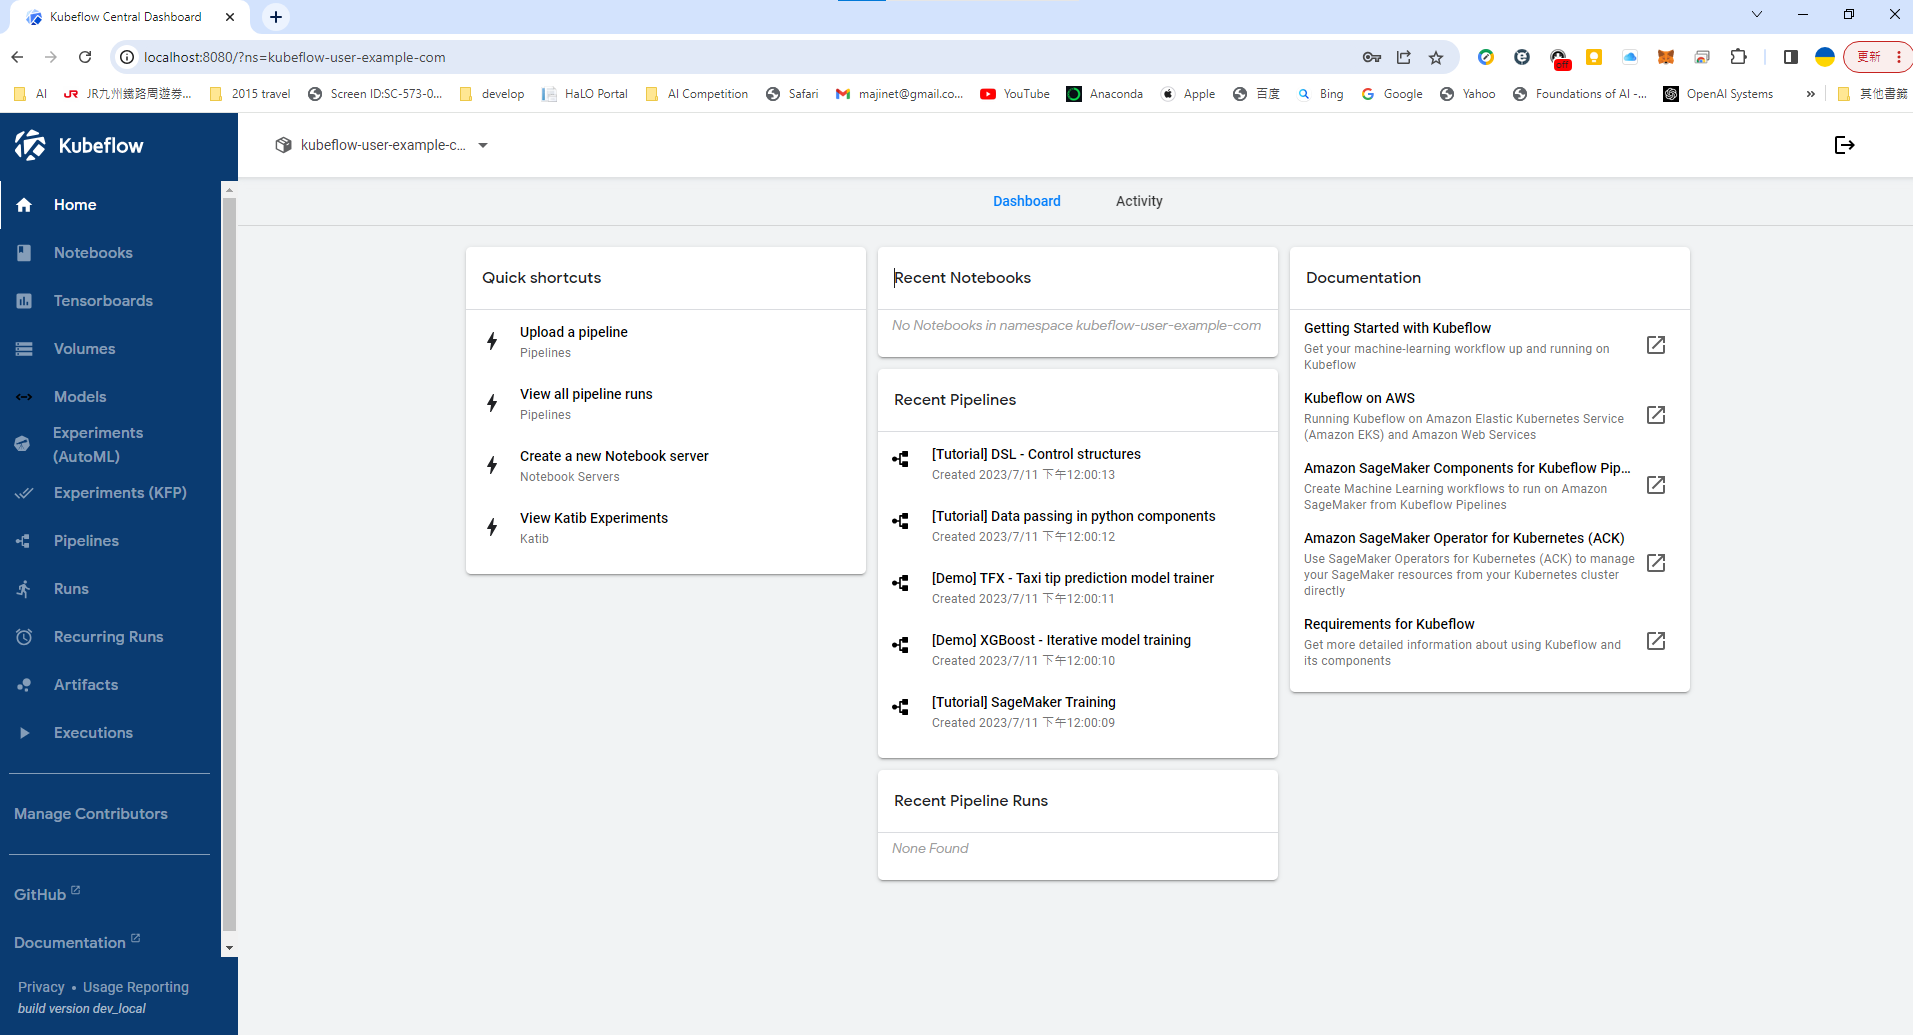
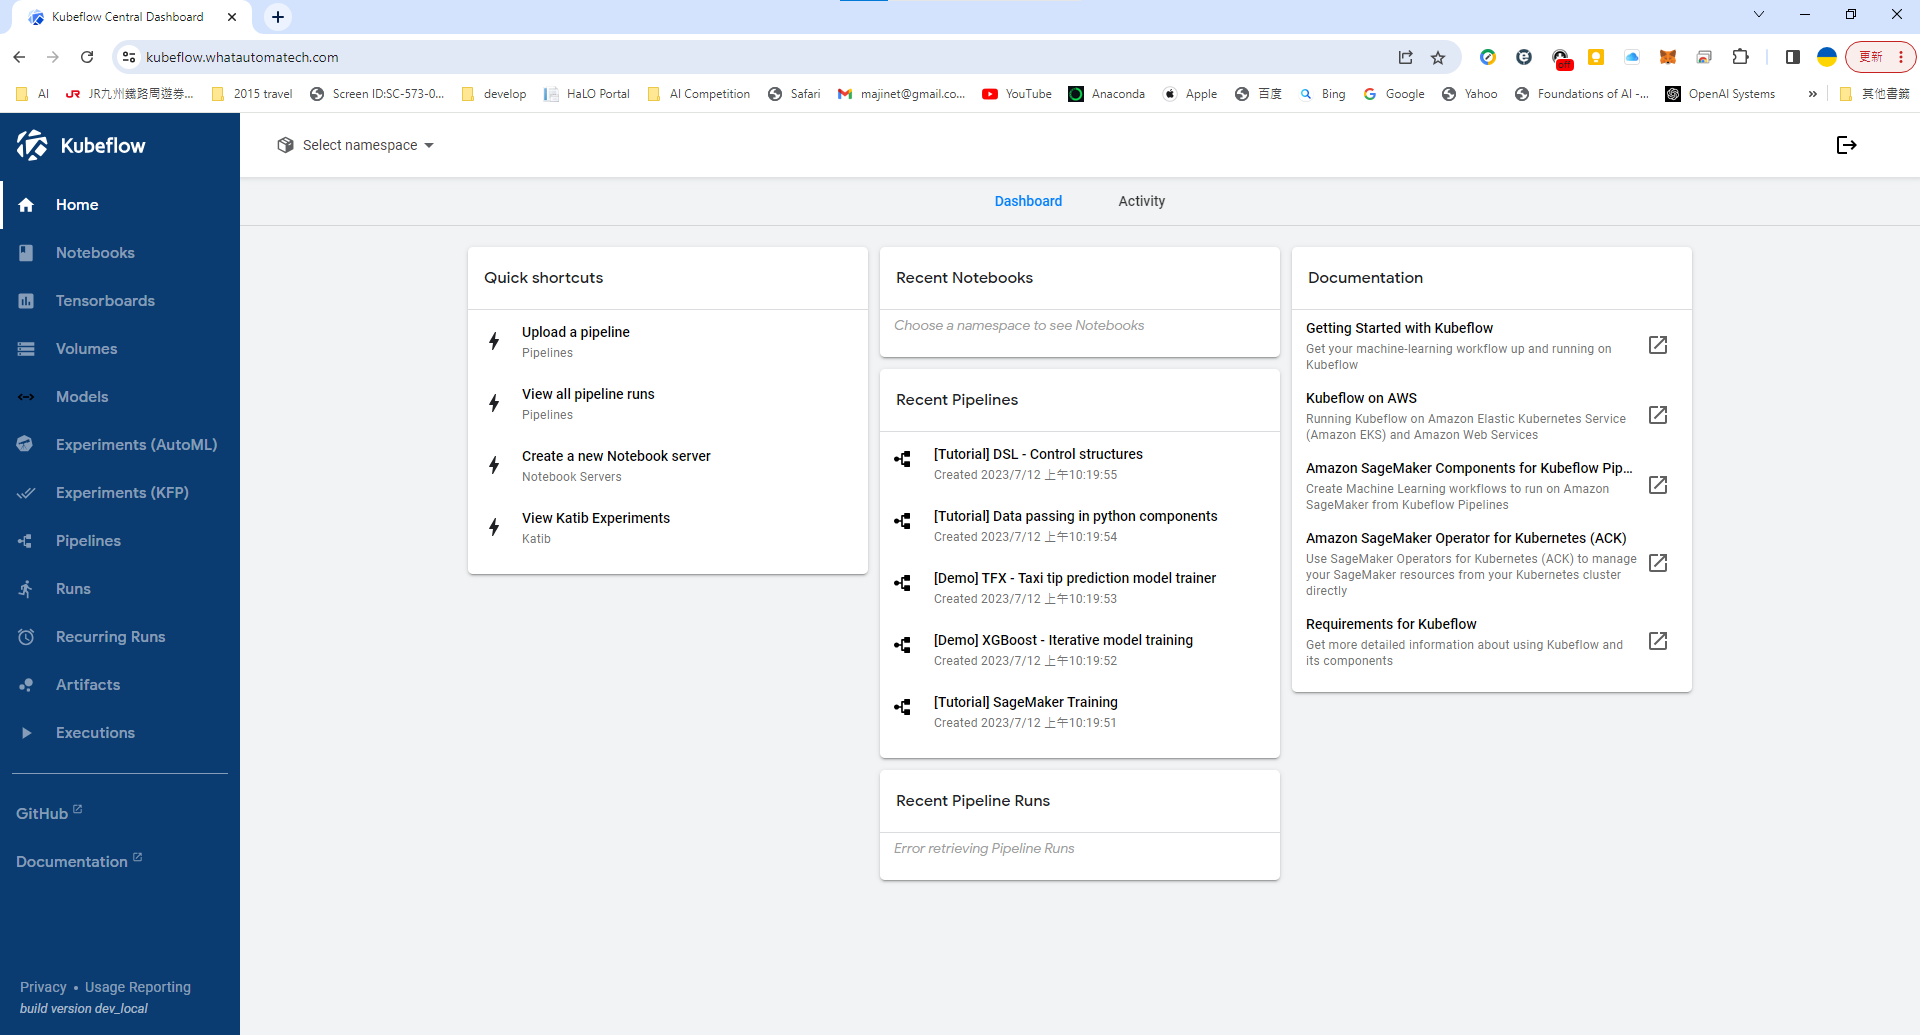
add cognito for kubeflow logon

diff --git a/README.md b/README.md
@@ -47,6 +47,6 @@ Diagram reference from blog "Enabling hybrid ML workflows on Amazon EKS and Amaz
 Refer to Blog: [Enabling hybrid ML workflows on Amazon EKS and Amazon SageMaker with one-click Kubeflow on AWS deployment](https://aws.amazon.com/tw/blogs/machine-learning/enabling-hybrid-ml-workflows-on-amazon-eks-and-amazon-sagemaker-with-one-click-kubeflow-on-aws-deployment/).
 
 ### Kubeflow Homepage
-After installation completed, kubeflow homepage can be logged in.
+Follow [Cognito Manual Deployment Guide](https://awslabs.github.io/kubeflow-manifests/docs/deployment/cognito/manifest/guide/) to install domain and AWS Application Load Balancer (ALB). After installation completed, kubeflow homepage can be logged in.
 
 ![kubeflow_main.png](architecture/images/kubeflow_main.png)
